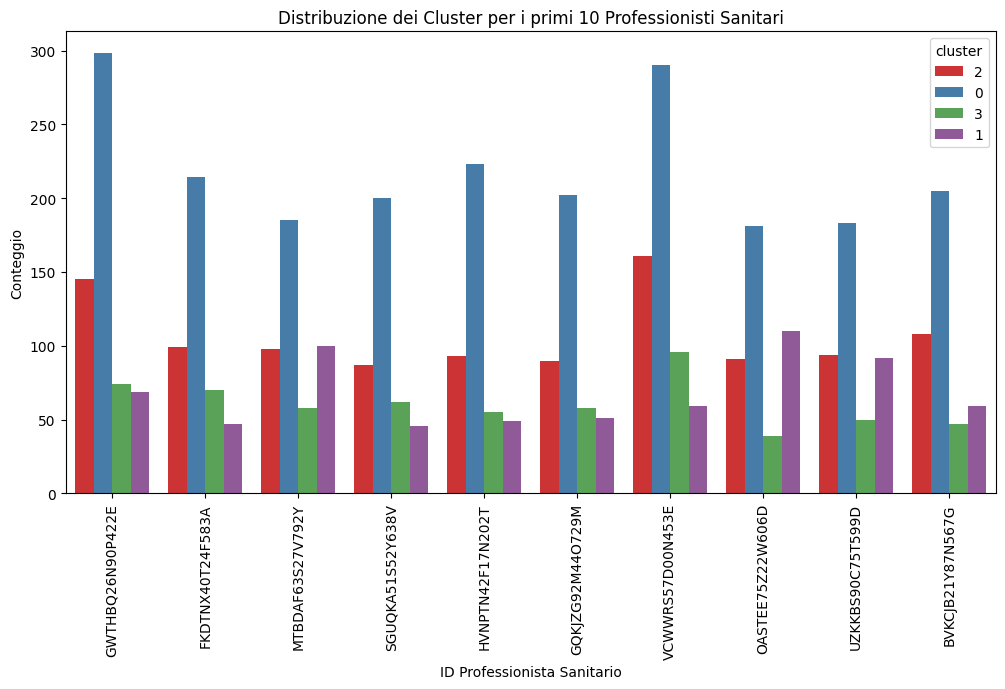
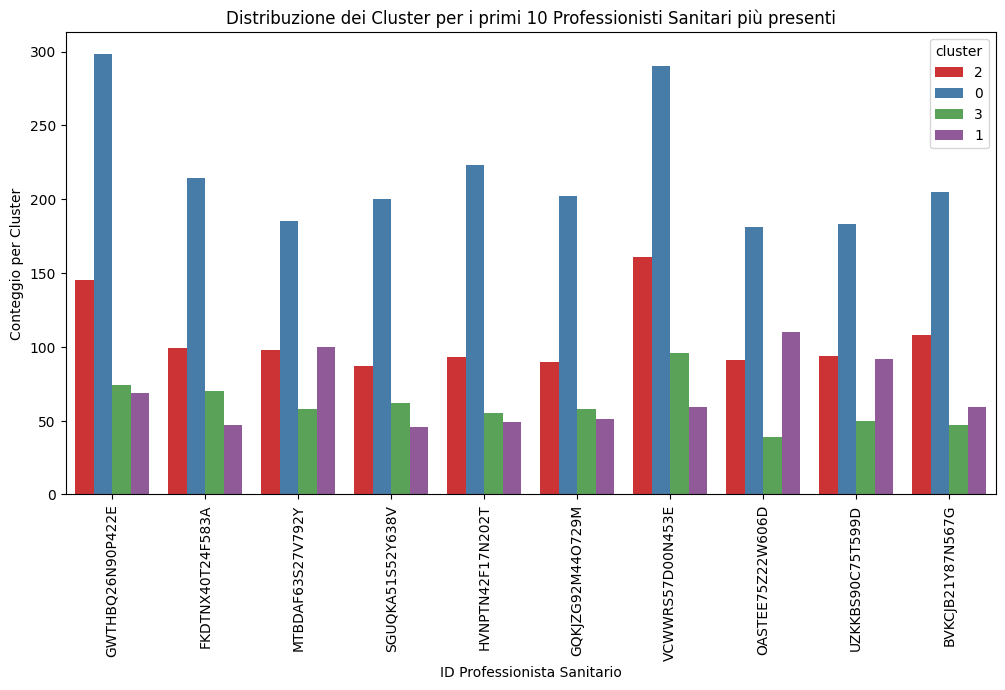
aggiunti nuovi plot

diff --git a/dataprocessing/manage/DataPlot.py b/dataprocessing/manage/DataPlot.py
@@ -56,7 +56,7 @@ class DataPlot:
 
     def plot_sex_distribution_by_cluster(self):
         """
-        Plot della distribuzione del sesso nei cluster usando la colonna 'sesso'.
+        Plot della distribuzione del sesso nei cluster.
         """
         if 'sesso' not in self.df.columns:
             logging.warning("La colonna 'sesso' non esiste nel dataset.")
@@ -73,7 +73,6 @@ class DataPlot:
     def plot_age_distribution_by_cluster(self):
         """
         Plot della distribuzione delle fasce d'età nei cluster.
-        Usa un violin plot.
         """
         if 'fascia_eta' not in self.df.columns:
             logging.warning("La colonna 'fascia_eta' non esiste nel dataset.")
@@ -88,7 +87,7 @@ class DataPlot:
 
     def plot_age_by_region(self):
         """
-        Mostra la distribuzione delle visite per fascia d'età in base alla regione usando un barplot impilato.
+        Mostra la distribuzione delle visite per fascia d'età in base alla regione.
         """
         if 'fascia_eta' not in self.df.columns or 'regione_residenza' not in self.df.columns:
             logging.warning("Le colonne 'fascia_eta' o 'regione_residenza' non esistono nel dataset.")
@@ -101,11 +100,11 @@ class DataPlot:
         plt.xlabel('Regione')
         plt.ylabel('Numero di Visite')
         plt.xticks(rotation=90)
-        self.save_plot(plt, 'age_by_region_barplot.png')
+        self.save_plot(plt, 'age_by_region.png')
 
     def plot_cluster_by_region(self):
         """
-        Cambia la tipologia di grafico per visualizzare tutte le regioni per cluster usando un barplot impilato.
+        Cambia la tipologia di grafico per visualizzare tutte le regioni per cluster.
         """
         if 'regione_residenza' not in self.df.columns or 'cluster' not in self.df.columns:
             logging.warning("Le colonne 'regione_residenza' o 'cluster' non esistono nel dataset.")
@@ -118,7 +117,7 @@ class DataPlot:
         plt.xlabel('Regione')
         plt.ylabel('Numero di Visite')
         plt.xticks(rotation=90)
-        self.save_plot(plt, 'cluster_by_region_barplot.png')
+        self.save_plot(plt, 'cluster_by_region.png')
 
     def plot_cluster_by_structure_type(self):
         """
@@ -134,7 +133,7 @@ class DataPlot:
         plt.xlabel('Tipologia Struttura')
         plt.ylabel('Conteggio')
         plt.xticks(rotation=90)
-        self.save_plot(plt, 'cluster_by_structure_type.png')
+        self.save_plot(plt, 'cluster_by_structure.png')
 
     def plot_increment_by_cluster(self):
         """
@@ -153,7 +152,7 @@ class DataPlot:
 
     def plot_cluster_by_quarter(self):
         """
-        Plot della distribuzione dei cluster per trimestre con etichette meglio distribuite.
+        Plot della distribuzione dei cluster per trimestre.
         """
         if 'trimestre' not in self.df.columns:
             logging.warning("La colonna 'trimestre' non esiste nel dataset.")
@@ -184,27 +183,29 @@ class DataPlot:
 
     def plot_cluster_by_professional(self, n=10):
         """
-        Plot della distribuzione dei cluster per professionista sanitario.
-        Mostra solo i primi 'n' professionisti per evitare sovraccarico nel grafico.
+        Plot della distribuzione dei cluster per i primi 'n' professionisti sanitari più presenti nel dataset.
         """
         if 'id_professionista_sanitario' not in self.df.columns:
             logging.warning("La colonna 'id_professionista_sanitario' non esiste nel dataset.")
             return
-        
-        top_professionisti = self.df['id_professionista_sanitario'].value_counts().head(n).index
+
+        # Conta il numero di occorrenze di ogni professionista e seleziona i top 'n' professionisti
+        top_professionisti = self.df['id_professionista_sanitario'].value_counts().nlargest(n).index
+
+        # Filtra il DataFrame per includere solo i professionisti più frequenti
         df_filtered = self.df[self.df['id_professionista_sanitario'].isin(top_professionisti)]
-        
+
         plt.figure(figsize=(12, 6))
         sns.countplot(x='id_professionista_sanitario', hue='cluster', data=df_filtered, palette='Set1')
-        plt.title(f'Distribuzione dei Cluster per i primi {n} Professionisti Sanitari')
+        plt.title(f'Distribuzione dei Cluster per i primi {n} Professionisti Sanitari più presenti')
         plt.xlabel('ID Professionista Sanitario')
-        plt.ylabel('Conteggio')
+        plt.ylabel('Conteggio per Cluster')
         plt.xticks(rotation=90)
         self.save_plot(plt, f'cluster_by_professional_top_{n}.png')
 
     def plot_visit_duration_by_cluster(self):
         """
-        Mostra la durata delle visite per cluster usando un facet grid.
+        Mostra la durata delle visite per cluster.
         """
         if 'durata_visita' not in self.df.columns:
             logging.warning("La colonna 'durata_visita' non esiste nel dataset.")
@@ -220,7 +221,7 @@ class DataPlot:
 
     def plot_visit_duration_strip_by_cluster(self):
         """
-        Mostra la durata delle visite per cluster usando uno strip plot.
+        Mostra la durata delle visite per cluster.
         """
         if 'durata_visita' not in self.df.columns:
             logging.warning("La colonna 'durata_visita' non esiste nel dataset.")
@@ -228,17 +229,148 @@ class DataPlot:
 
         plt.figure(figsize=(10, 6))
         sns.stripplot(x='cluster', y='durata_visita', data=self.df, jitter=0.25, palette='Set2', hue='cluster', size=2.5)
-        plt.title('Durata delle Visite per Cluster (Strip Plot con Jitter)')
+        plt.title('Durata delle Visite per Cluster')
         plt.xlabel('Cluster')
         plt.ylabel('Durata Visita (minuti)')
         self.save_plot(plt, 'visit_duration_strip_by_cluster.png')
+
+    def plot_visit_duration_by_sex(self):
+        """
+        Mostra la durata delle visite per sesso.
+        """
+        if 'durata_visita' not in self.df.columns or 'sesso' not in self.df.columns:
+            logging.warning("Le colonne 'durata_visita' o 'sesso' non esistono nel dataset.")
+            return
+
+        plt.figure(figsize=(8, 6))
+        sns.stripplot(x='sesso', y='durata_visita', data=self.df, jitter=True, hue='sesso', palette='Set2', size=2.5)
+        plt.title('Durata delle Visite per Sesso')
+        plt.xlabel('Sesso')
+        plt.ylabel('Durata Visita (minuti)')
+        self.save_plot(plt, 'visit_duration_by_sex.png')
+
+    def plot_visit_duration_by_region_and_sex(self):
+        """
+        Mostra la durata delle visite per regione e sesso.
+        """
+        if 'durata_visita' not in self.df.columns or 'sesso' not in self.df.columns or 'regione_residenza' not in self.df.columns:
+            logging.warning("Le colonne necessarie non esistono nel dataset.")
+            return
+
+        plt.figure(figsize=(12, 8))
+        sns.violinplot(x='regione_residenza', y='durata_visita', hue='sesso', data=self.df, split=True, inner=None, palette='Set2')
+        sns.stripplot(x='regione_residenza', y='durata_visita', hue='sesso', data=self.df, jitter=True, dodge=True, palette='Set2', marker='o', size=3, alpha=0.5)
+        plt.xticks(rotation=90)
+        plt.title('Durata delle Visite per Regione e Sesso')
+        plt.xlabel('Regione di Residenza')
+        plt.ylabel('Durata Visita (minuti)')
+        plt.legend(title='Sesso', bbox_to_anchor=(1, 1))
+        self.save_plot(plt, 'visit_duration_by_region_and_sex.png')
+
+    def plot_visits_by_age_and_sex(self):
+        """
+        Mostra il numero di visite per fascia d'età e sesso.
+        """
+        if 'fascia_eta' not in self.df.columns or 'sesso' not in self.df.columns:
+            logging.warning("Le colonne 'fascia_eta' o 'sesso' non esistono nel dataset.")
+            return
+
+        plt.figure(figsize=(12, 6))
+        sns.countplot(x='fascia_eta', hue='sesso', data=self.df, palette='Set2')
+        plt.title('Numero di Visite per Fascia d\'Età e Sesso')
+        plt.xlabel('Fascia d\'Età')
+        plt.ylabel('Conteggio Visite')
+        self.save_plot(plt, 'visits_by_age_and_sex.png')
+
+    def plot_visits_by_year_and_region(self):
+        """
+        Mostra la distribuzione delle visite per anno e regione.
+        """
+        if 'anno' not in self.df.columns or 'regione_residenza' not in self.df.columns:
+            logging.warning("Le colonne 'anno' o 'regione_residenza' non esistono nel dataset.")
+            return
+
+        plt.figure(figsize=(12, 8))
+        sns.countplot(x='anno', hue='regione_residenza', data=self.df, palette='Set3')
+        plt.title('Distribuzione delle Visite per Anno e Regione')
+        plt.xlabel('Anno')
+        plt.ylabel('Conteggio Visite')
+        self.save_plot(plt, 'visits_by_year_and_region.png')
+
+    def plot_visit_duration_by_age_and_cluster(self):
+        """
+        Mostra la durata delle visite per fascia d'età e cluster.
+        """
+        if 'fascia_eta' not in self.df.columns or 'durata_visita' not in self.df.columns or 'cluster' not in self.df.columns:
+            logging.warning("Le colonne necessarie non esistono nel dataset.")
+            return
+
+        g = sns.FacetGrid(self.df, col='fascia_eta', hue='cluster', col_wrap=4, height=4)
+        g.map(sns.histplot, 'durata_visita', kde=False, multiple="stack")
+        g.add_legend(title='Cluster')
+        g.set_axis_labels('Durata Visita (minuti)', 'Conteggio')
+        g.fig.suptitle('Durata delle Visite per Fascia d\'Età e Cluster', y=1.02)
+        g.tight_layout()
+        self.save_plot(plt, 'visit_duration_by_age_and_cluster.png')
+
+    def plot_total_professionals_per_region(self):
+        """
+        Visualizza il numero di professionisti sanitari unici per ogni regione.
+        """
+        if 'regione_residenza' not in self.df.columns or 'id_professionista_sanitario' not in self.df.columns:
+            logging.warning("Le colonne necessarie non esistono nel dataset.")
+            return
+
+        # Conta il numero di professionisti sanitari unici per regione
+        professional_counts = self.df.groupby('regione_residenza')['id_professionista_sanitario'].nunique().sort_values(ascending=False)
+
+        # Crea il barplot
+        plt.figure(figsize=(12, 6))
+        ax = sns.barplot(x=professional_counts.index, y=professional_counts.values, hue=professional_counts.index, palette='Set3')
+
+        # Aggiungi etichette e titolo
+        plt.title('Numero Totale di Professionisti Sanitari Unici per Regione')
+        plt.xlabel('Regione di Residenza')
+        plt.ylabel('Numero di Professionisti Sanitari Unici')
+        plt.xticks(rotation=90)
+
+        # Aggiungi annotazioni su ogni barra per visualizzare il numero esatto
+        for index, value in enumerate(professional_counts.values):
+            ax.text(index, value + 50, str(value), ha='center', va='bottom')
+
+        self.save_plot(plt, 'total_professionals_per_region.png')
+
+    def plot_professionals_by_type_and_region(self):
+        """
+        Visualizza il numero di professionisti sanitari per tipologia in ogni regione.
+        """
+        if 'regione_residenza' not in self.df.columns or 'tipologia_professionista_sanitario' not in self.df.columns:
+            logging.warning("Le colonne necessarie non esistono nel dataset.")
+            return
+
+        # Raggruppa i dati per regione e tipologia di professionista sanitario, quindi conta le occorrenze
+        professional_counts = self.df.groupby(['regione_residenza', 'tipologia_professionista_sanitario']).size().unstack(fill_value=0)
+
+        # Crea il barplot impilato (stacked bar plot)
+        plt.figure(figsize=(12, 8))
+        professional_counts.plot(kind='bar', stacked=True, colormap='Set3', figsize=(12, 8))
+
+        # Aggiungi etichette e titolo
+        plt.title('Numero di Professionisti Sanitari per Tipologia e Regione')
+        plt.xlabel('Regione di Residenza')
+        plt.ylabel('Numero di Professionisti Sanitari')
+        plt.xticks(rotation=90)
+
+        self.save_plot(plt, 'professionals_by_type_and_region.png')
 
 
     def generate_plots(self):
         """
         Genera tutti i grafici disponibili, ottimizzati.
         """
-        self.ensure_correct_column_types()  # Assicura che i cluster siano trattati come categoriali
+        self.ensure_correct_column_types()
+
+        # Inizio generazione plot
         self.plot_cluster_distribution()
         self.plot_sex_distribution_by_cluster()
         self.plot_age_distribution_by_cluster()
@@ -251,5 +383,12 @@ class DataPlot:
         self.plot_cluster_by_professional(n=10)
         self.plot_visit_duration_by_cluster()
         self.plot_visit_duration_strip_by_cluster()
+        self.plot_visit_duration_by_sex()
+        self.plot_visit_duration_by_region_and_sex()
+        self.plot_visits_by_age_and_sex()
+        self.plot_visits_by_year_and_region()
+        self.plot_visit_duration_by_age_and_cluster()
+        self.plot_total_professionals_per_region()
+        self.plot_professionals_by_type_and_region()
 
         logging.info("Tutti i grafici sono stati generati e salvati nella cartella 'graphs'.")
